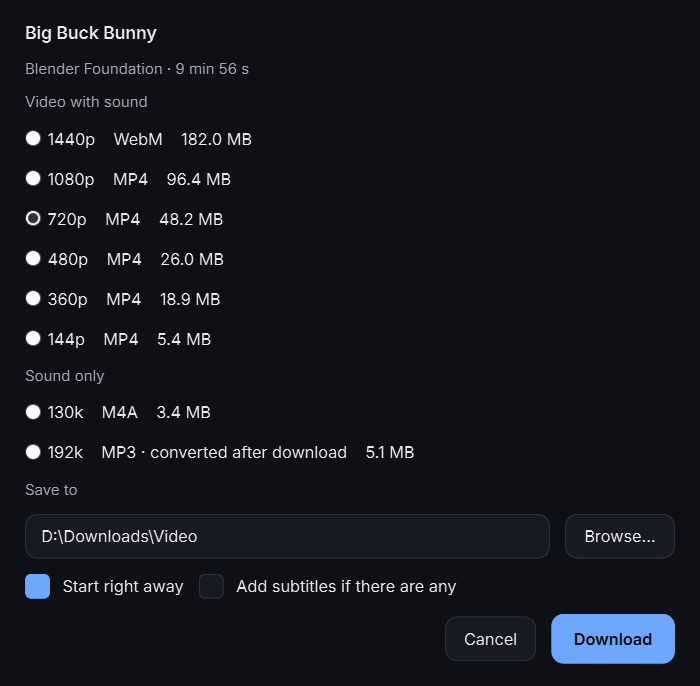
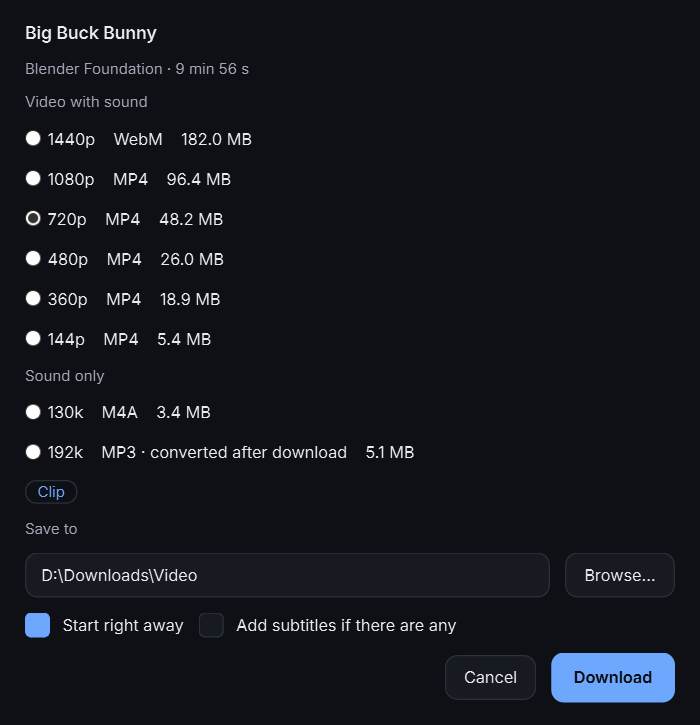
docs: README screenshots for clips and file checks
Claude-Session: https://claude.ai/code/session_01PdiUrCzu2k151HpxJiJFpb

diff --git a/README.md b/README.md
@@ -57,16 +57,6 @@ connections are handled by backing off to one at a time.
 A name that's taken gets ` (2)`. Network drops are retried by themselves. Errors are written for
 people: *"server refused (403) · link may have expired"*, with a **Retry** button.
 
-### Knows what you already have
-Paste a link you downloaded last week and it says so, with **Open folder** right there, even
-when it's the same YouTube video under a different link. A file that turns out identical to one
-already in the folder is pointed out, with **Delete this copy** or **Keep both**.
-
-### Checks the file arrived intact
-Paste a checksum (SHA-256, SHA-1 or MD5), or let the app find the `SHA256SUMS` a site publishes
-next to the file. Once downloaded, the card says **✓ SHA-256 verified**, or warns that the file
-may be damaged and keeps it aside.
-
   </td>
   <td width="50%" valign="top">
     <img src="screenshots/formats.png" alt="The full list of formats for a video, with sizes">
@@ -87,11 +77,37 @@ M4A, and MP3.
 ### Subtitles, too
 Turn them on in Settings and they're saved next to each video.
 
-### Just the part you want
-Switch on **Clip** and download only minutes 12:30–15:00 of a long video. A link shared with a
-start time (`&t=750`) fills in **From** by itself. Cuts are exact, and the file is named
-`Title (12-30 to 15-00).mp4`.
+  </td>
+  </tr>
+  <tr>
+    <td colspan="2" valign="top">
 
+### Just the part you want
+Switch on **Clip** and drag the two handles on the bar to keep only the part you want, say
+1:00 to 2:30 of a long video, or type the times. The size updates as you drag. Cuts are exact,
+and the file is named `Title (1-00 to 2-30).mp4`.
+
+<img src="screenshots/clip.png" alt="A YouTube video with Clip on: a bar with two handles selects 1:00 to 2:30, and the size shows the clip's estimate">
+
+  </td>
+  </tr>
+  <tr>
+    <td width="50%" valign="top">
+
+### Knows what you already have
+Paste a link you downloaded before and it says so, with **Open folder** right there, even when
+it's the same YouTube video under a different link, or a clip of it. A file that's already in
+the folder is spotted too, and one that turns out identical to another is pointed out, with
+**Delete this copy** or **Keep both**.
+
+### Checks the file arrived intact
+Paste a checksum (SHA-256, SHA-1 or MD5) in the optional box, or let the app find the
+`SHA256SUMS` a site publishes next to the file. Once downloaded, the card says **✓ SHA-256
+verified**, or warns that the file may be damaged and keeps it aside, never under its real name.
+
+  </td>
+  <td width="50%" valign="top">
+    <img src="screenshots/checks.png" alt="Cards being checked, verified, failing their checksum, and identical to a file already in the folder; the paste bar found the site's SHA256SUMS">
   </td>
   </tr>
   <tr>
